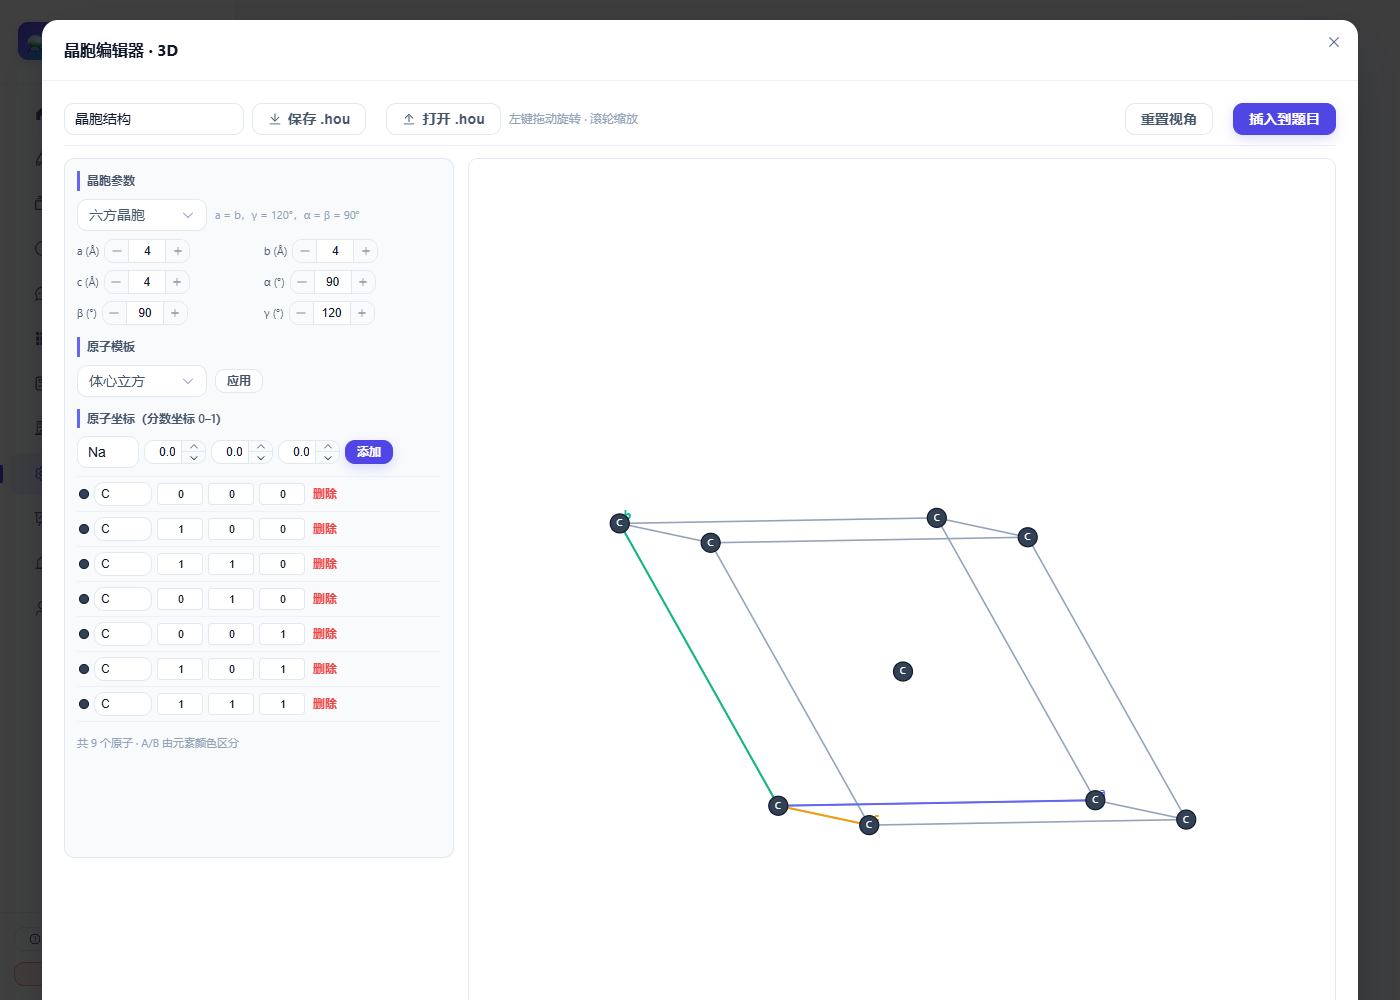
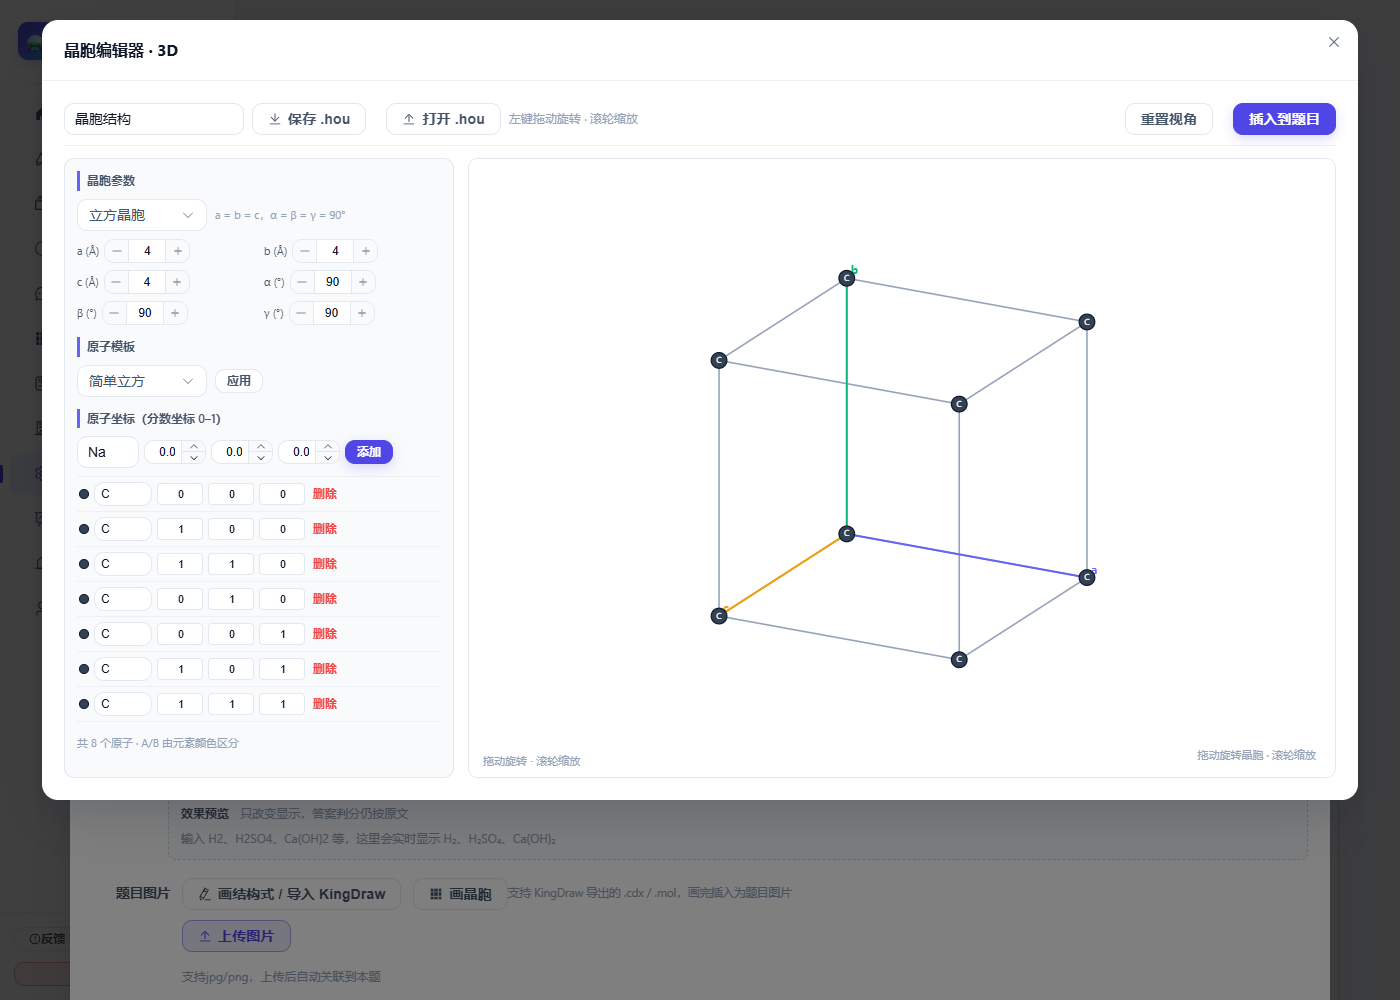
fix(crystal): 修复晶胞编辑器弹窗持续向下拉伸
- canvas 容器固定 min(62vh,620px)，canvas 绝对定位铺满
- 断开 ResizeObserver 与画布高度的循环；手机端固定 44vh
- 线上已验证弹窗高度稳定；部署器版本 2.1.43

diff --git a/web/src/components/CrystalCellEditor.vue b/web/src/components/CrystalCellEditor.vue
@@ -542,10 +542,14 @@ onBeforeUnmount(() => {
 .hou-empty { padding: 14px 4px; color: var(--text-placeholder); font-size: 12px; }
 .hou-count { margin-top: 8px; font-size: 11px; color: var(--text-placeholder); }
 .hou-canvas-wrap {
-  flex: 1; min-width: 0; min-height: 440px; border: 1px solid var(--border-color);
-  border-radius: 10px; overflow: hidden; background: #fff; position: relative;
+  flex: 1; min-width: 0; height: min(62vh, 620px); max-height: 62vh;
+  border: 1px solid var(--border-color); border-radius: 10px;
+  overflow: hidden; background: #fff; position: relative;
 }
-.hou-canvas { display: block; width: 100%; height: 100%; touch-action: none; cursor: grab; }
+.hou-canvas {
+  position: absolute; inset: 0; display: block; width: 100%; height: 100%;
+  touch-action: none; cursor: grab;
+}
 .hou-canvas:active { cursor: grabbing; }
 .hou-canvas__hint {
   position: absolute; right: 12px; bottom: 10px; font-size: 11px;
@@ -554,7 +558,7 @@ onBeforeUnmount(() => {
 }
 @media (max-width: 900px) {
   .hou-main { flex-direction: column; }
-  .hou-panel { width: auto; max-height: 40vh; }
-  .hou-canvas-wrap { min-height: 360px; }
+  .hou-panel { width: auto; max-height: 36vh; }
+  .hou-canvas-wrap { height: 44vh; max-height: 44vh; min-height: 300px; }
 }
 </style>

diff --git a/deployer/windows/win_deployer.py b/deployer/windows/win_deployer.py
@@ -16,7 +16,7 @@
     ChemLearnWindows.exe --reset            重新部署（清空用户数据，恢复内置题库）
     ChemLearnWindows.exe --console          纯命令行模式（排障用，窗口里能看到日志）
 """
-VERSION = "2.1.42"
+VERSION = "2.1.43"
 APP_NAME = "化学学习系统"
 DATA_FOLDER = "ChemLearnWindows"
 PAYLOAD_NAME = "payload_chem.tar.gz"

diff --git a/README.md b/README.md
@@ -34,7 +34,7 @@
 | 文件 | 平台 | 说明 |
 |---|---|---|
 | [ChemLearn-Deployer-v1.3.0.exe](https://github.com/houshibo0101/chemlearn/releases/tag/v1.3.0) | Linux 服务器 | 填 IP、SSH 密码和 AI Key，自动装好 nginx / Python / systemd，3–6 分钟完成 |
-| [ChemLearnWindows-v2.1.42.exe](https://github.com/houshibo0101/chemlearn/releases/tag/windows-v2.1.42) | Windows 本机 | 双击部署到本机，界面里看地址 / 开系统 / 重置，局域网可访问 |
+| [ChemLearnWindows-v2.1.43.exe](https://github.com/houshibo0101/chemlearn/releases/tag/windows-v2.1.43) | Windows 本机 | 双击部署到本机，界面里看地址 / 开系统 / 重置，局域网可访问 |
 | [题库数据包 453 题](https://github.com/houshibo0101/chemlearn/releases/tag/question-bank-v1) | 通用 | 解压到 `backend/import_data/` 后跑导入脚本 |
 
 > Linux 部署器内置完整部署包（源码 + 前端 + 依赖清单），目标机只需能联网的 Ubuntu / Debian。
